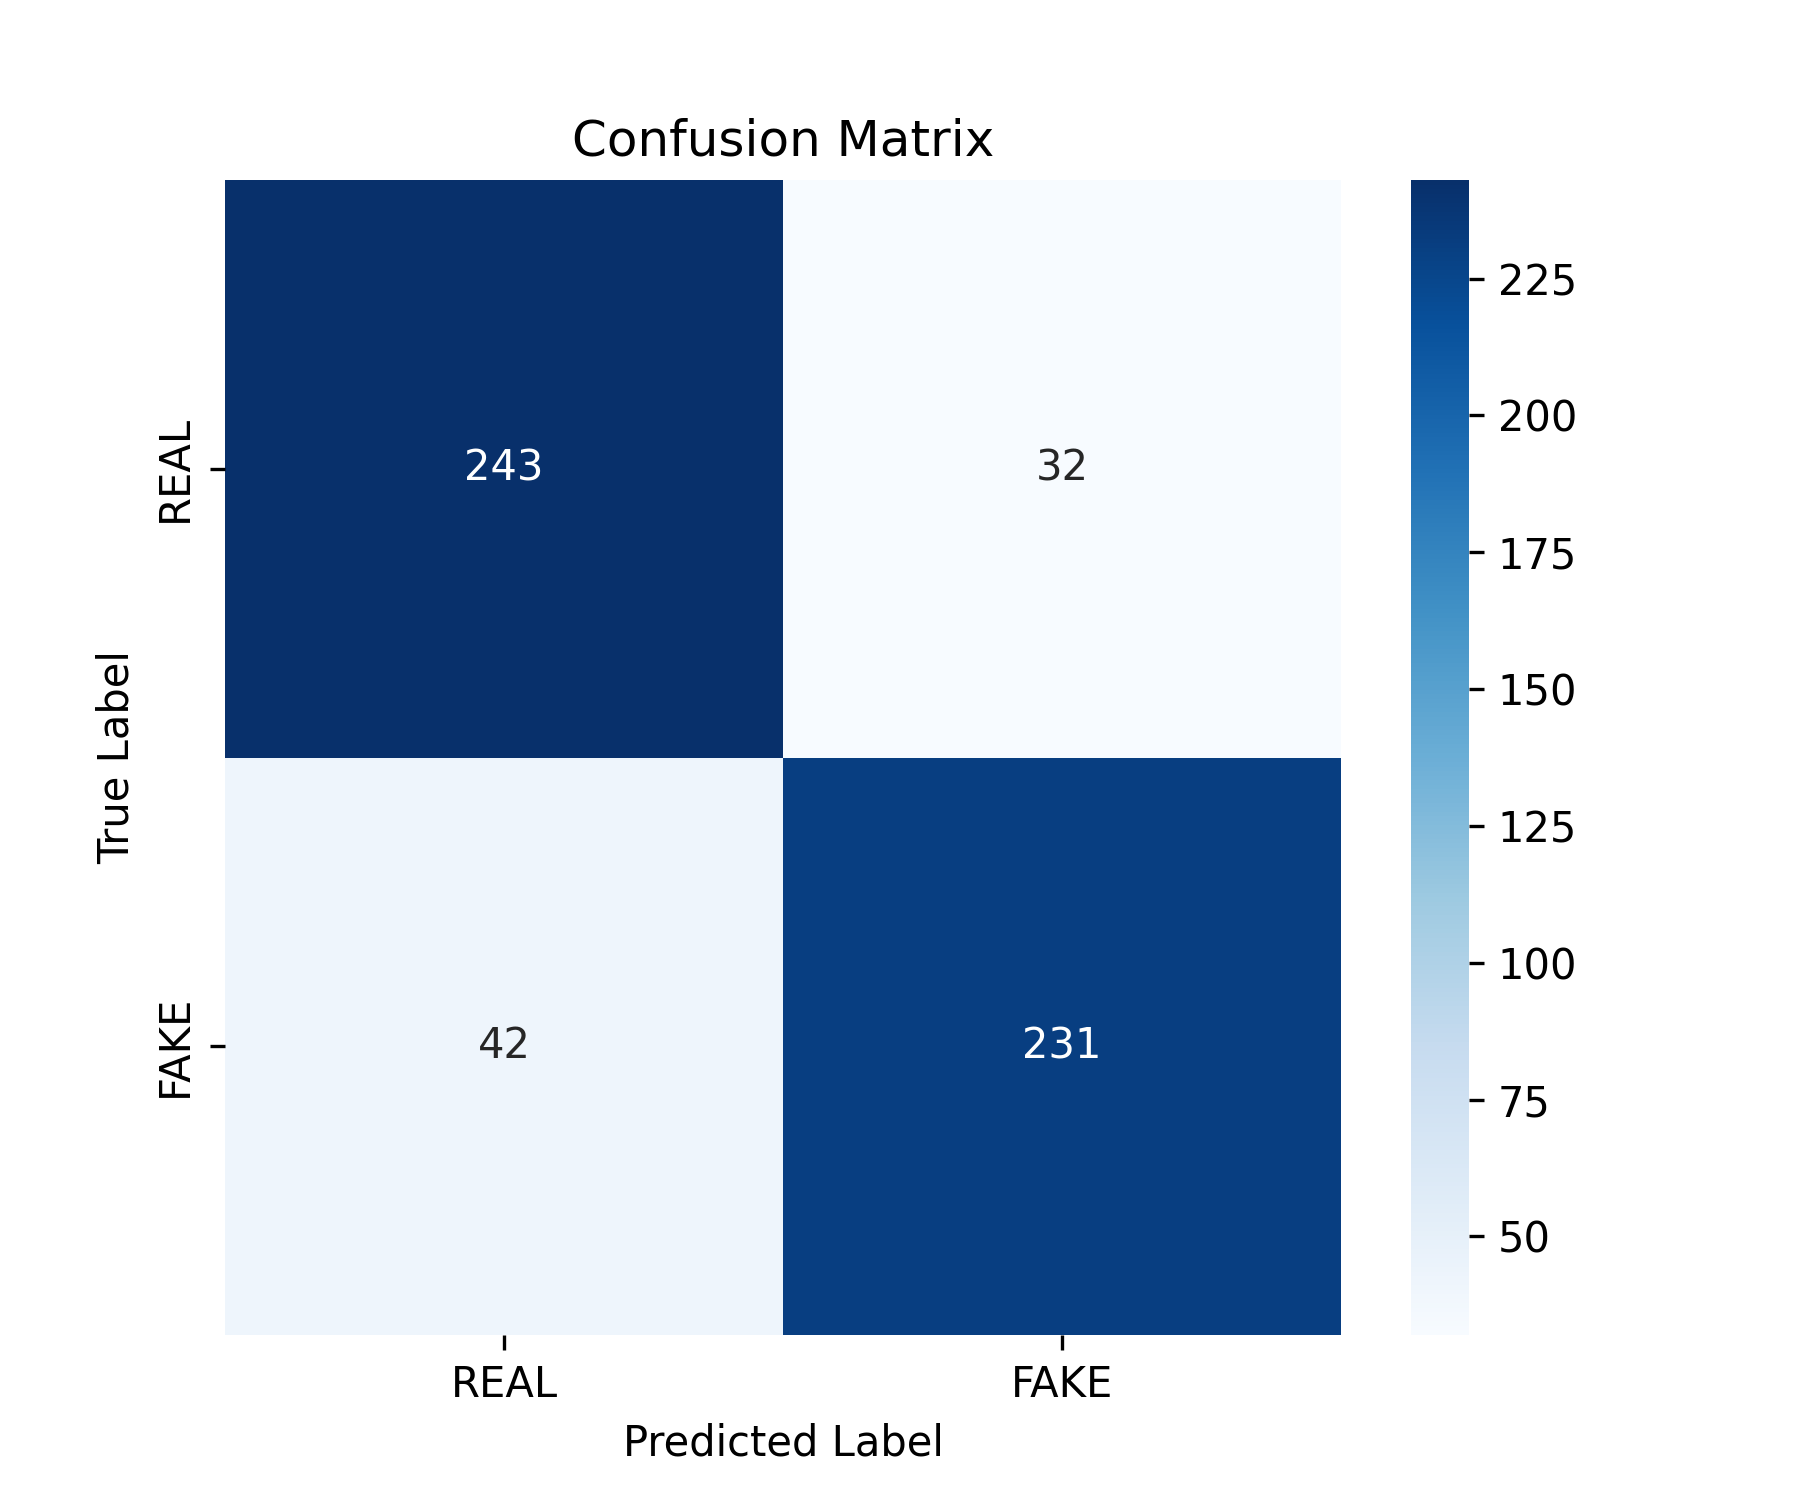
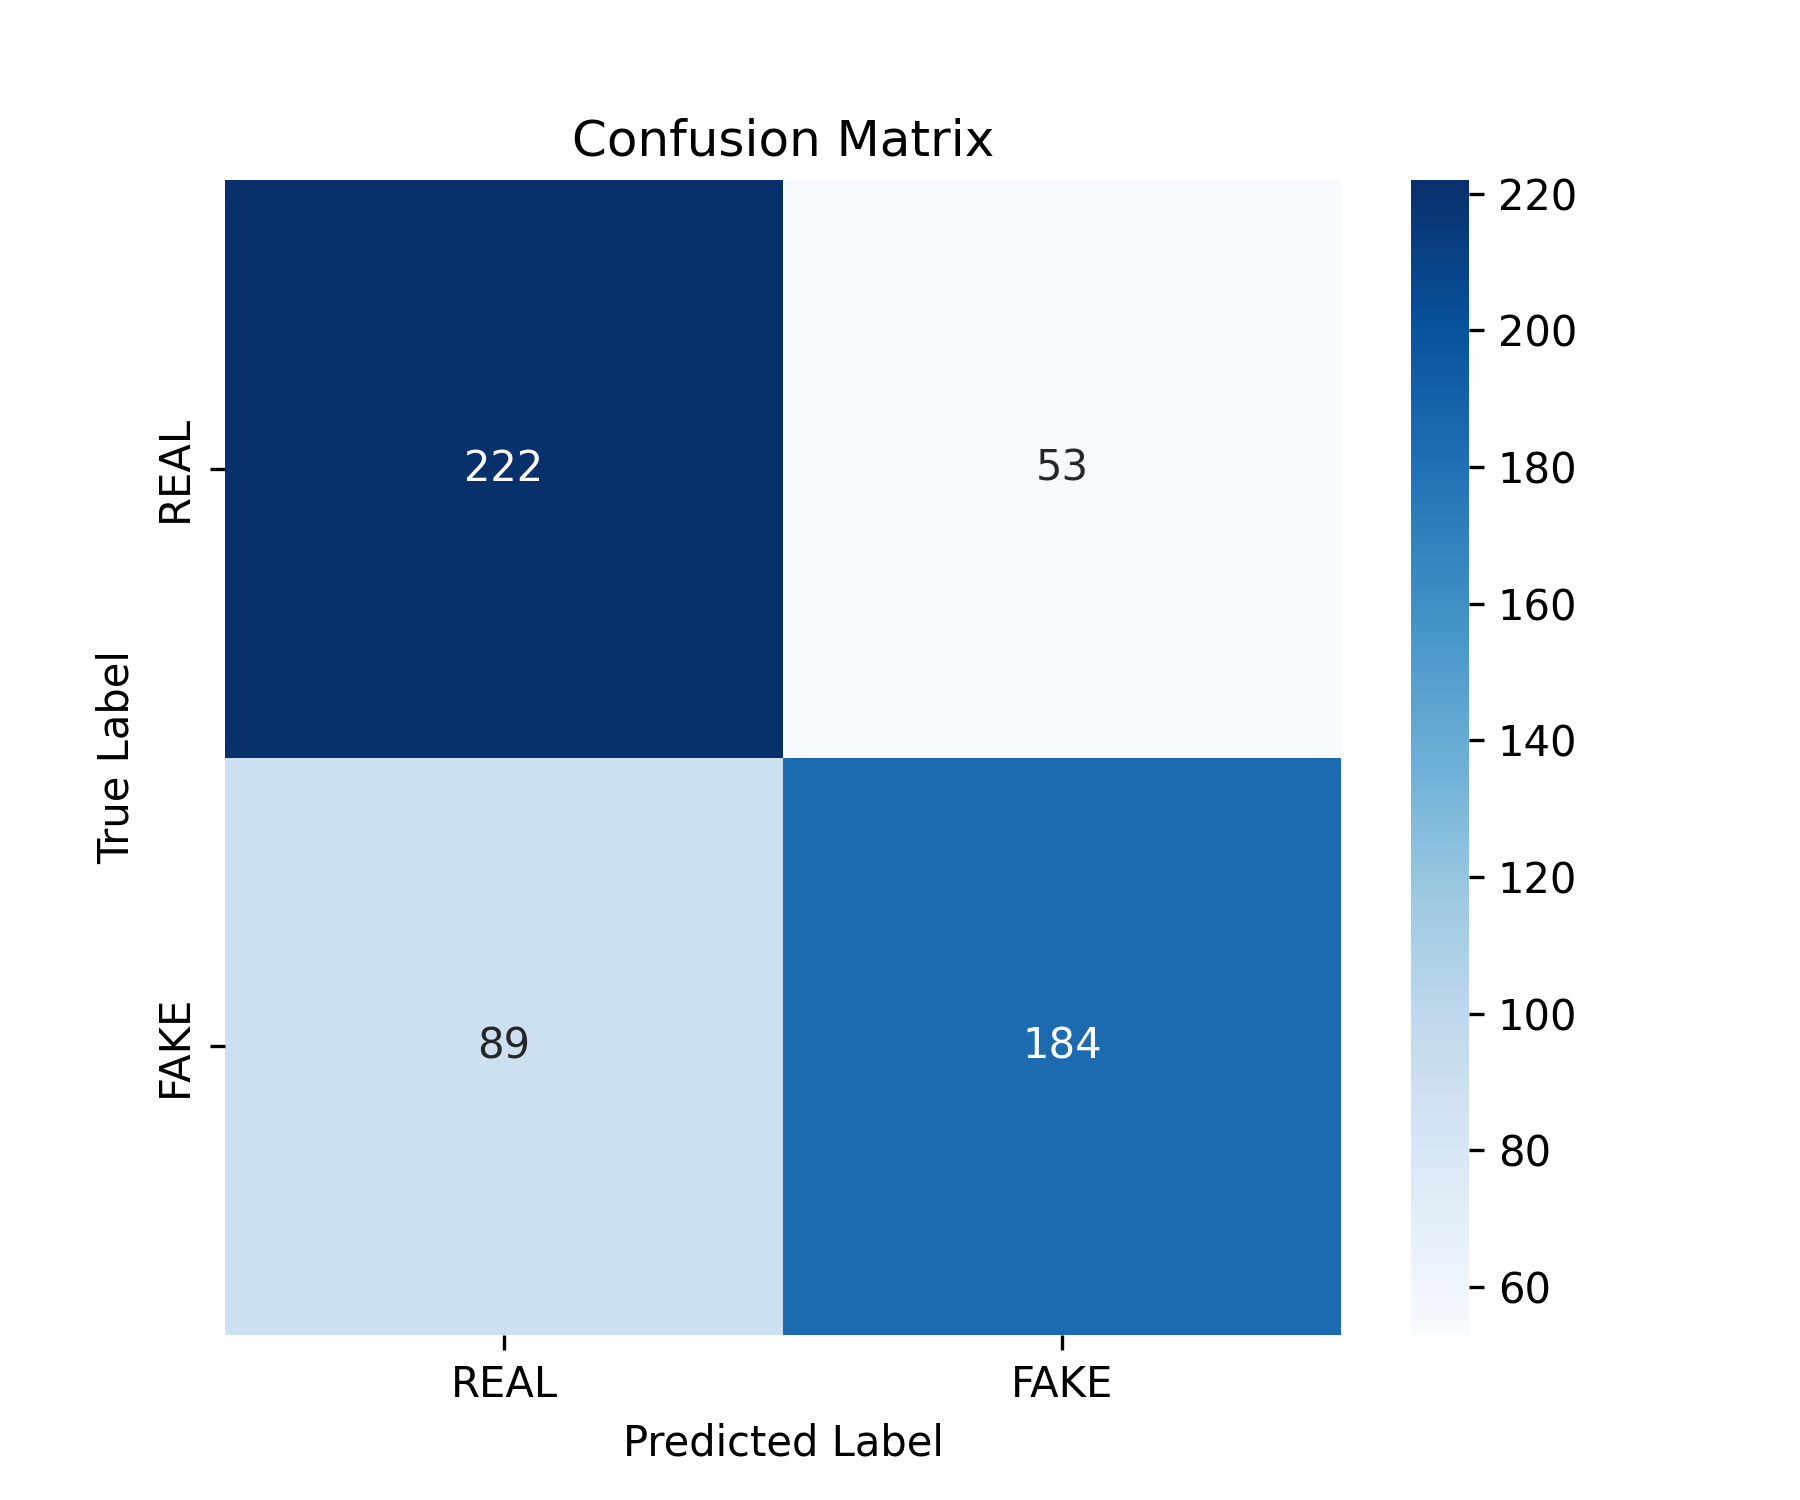
Update model and visualizations: comment out FFT shift in forward method and update confusion matrix and ROC curve images.

Changed region(s): [[0.1244, 0.4907, 0.7467, 0.8893], [0.84, 0.1227, 0.8711, 0.8587], [0.2489, 0.3067, 0.3111, 0.3373]]

diff --git a/model.py b/model.py
@@ -24,7 +24,7 @@ class SwinTinyBinary(nn.Module):
     def forward(self, x):
         # Compute 2D FFT
         x_fft = torch.fft.fft2(x, dim=(-2, -1))  # Apply FFT along height and width
-        x_fft = torch.fft.fftshift(x_fft, dim=(-2, -1))  # Shift zero-frequency component to the center
+        # x_fft = torch.fft.fftshift(x_fft, dim=(-2, -1))  # Shift zero-frequency component to the center
         x_mag = torch.abs(x_fft)  # Get magnitude spectrum
 
         return self.model(x_mag)
